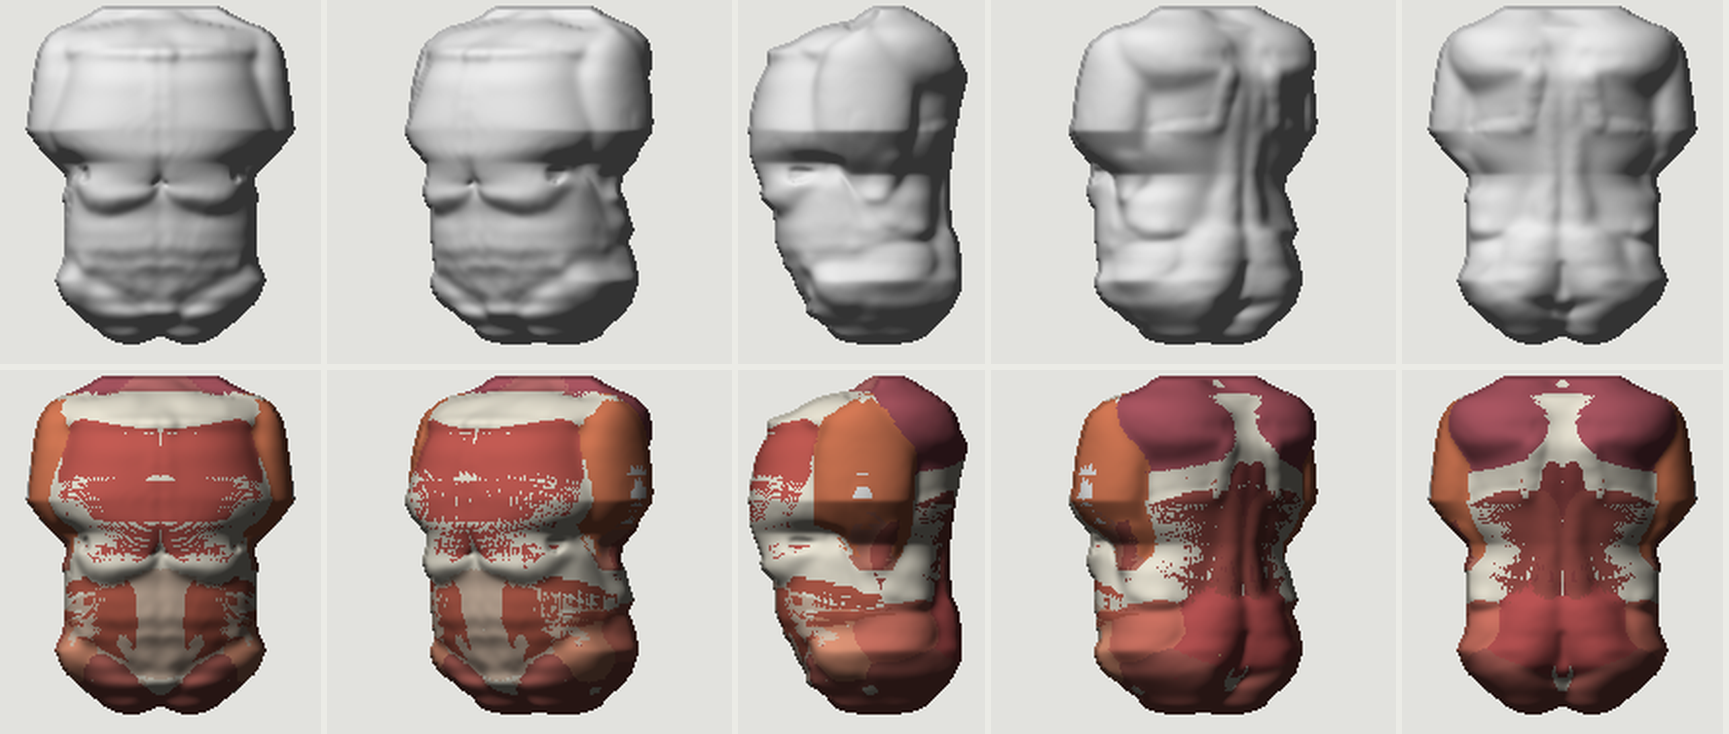
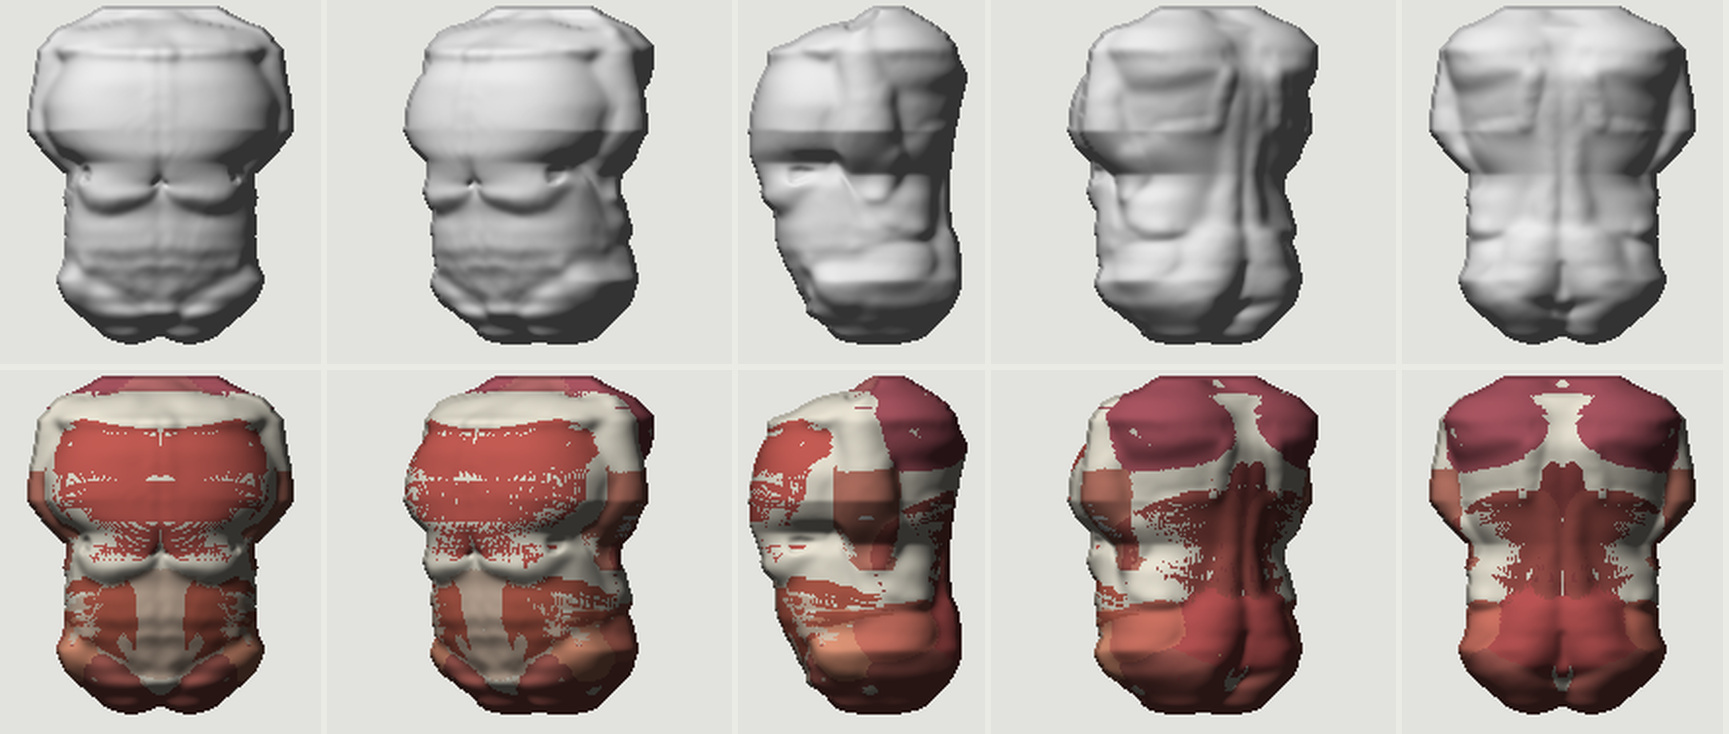
Body 3D: deltoid removed from the trunk stack (a ghost limb muscle); prototype M v4
M v4: muscle 32.9 %, fat 23 %, bone 7.1 %, viscera 33.4 % of the torso mass; widths 1 / 0.79 / 0.72 / 0.77. The WDI-fitted Male fills the shoulder cap with fat where the deltoid was.

diff --git a/Art/work/transfer-proto/fable-crack/stack3d.py b/Art/work/transfer-proto/fable-crack/stack3d.py
@@ -577,8 +577,8 @@ def build_male(G, T, prm=MALE, ty=None):
            colour=COL["erec"], prof=1.2)
 
     # ---- shoulder
-    # deltoid: cap over the shoulder joint from the clavicle, the acromion and the spine of the scapula down to the humerus
-    S.add("deltoid", "muscle", ell((78, 250, 254), (16.5, 52, 30), rad2=(16.5, 48, 30)), k=1.5, colour=COL["delt"])
+    # deltoid: removed from the trunk 2026-11-17 (Virginie: 'il fait partie des membres fantômes'). It is a muscle of the
+    # arm (clavicle, acromion, scapular spine to the humerus); the ghost carries it as "deltoid cap" (build_ghost).
 
     # ---- pelvis and thigh stump
     # gluteus medius: from the iliac crest (row 347) down to the greater trochanter (391)
